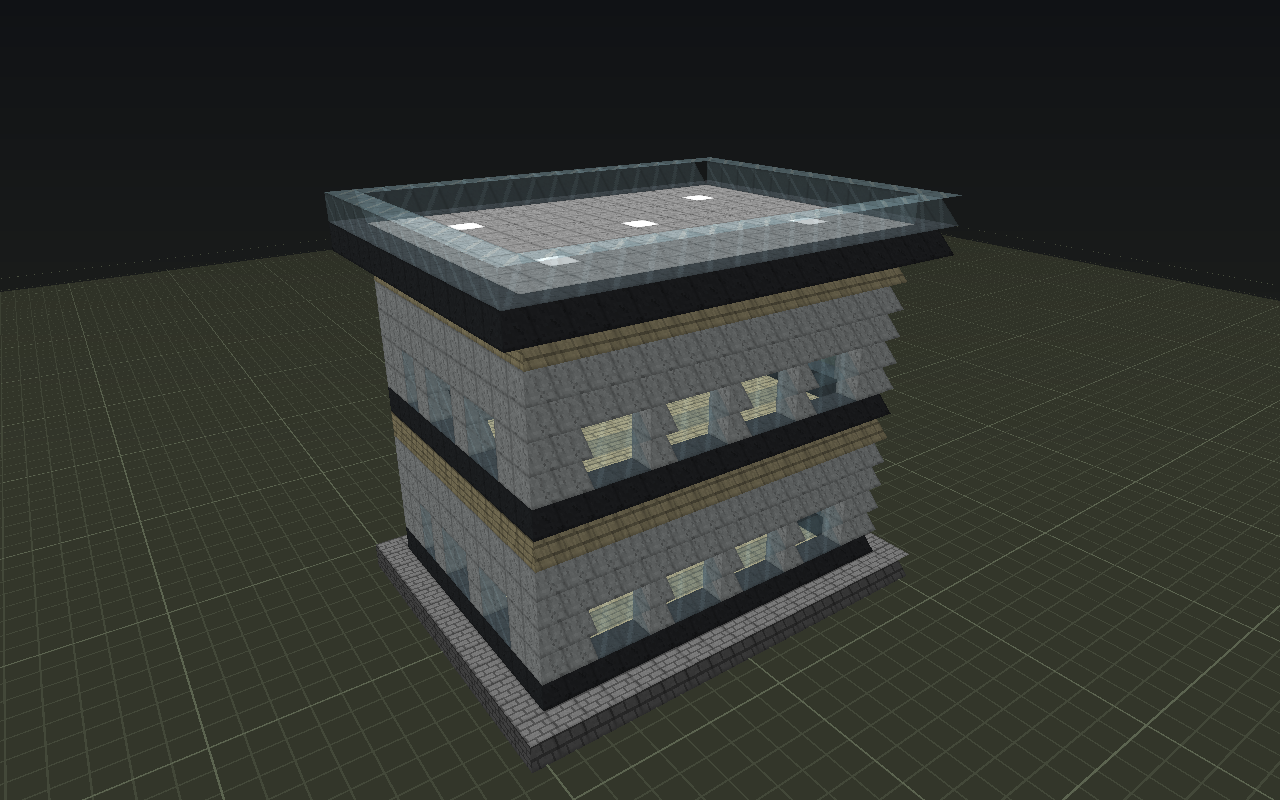
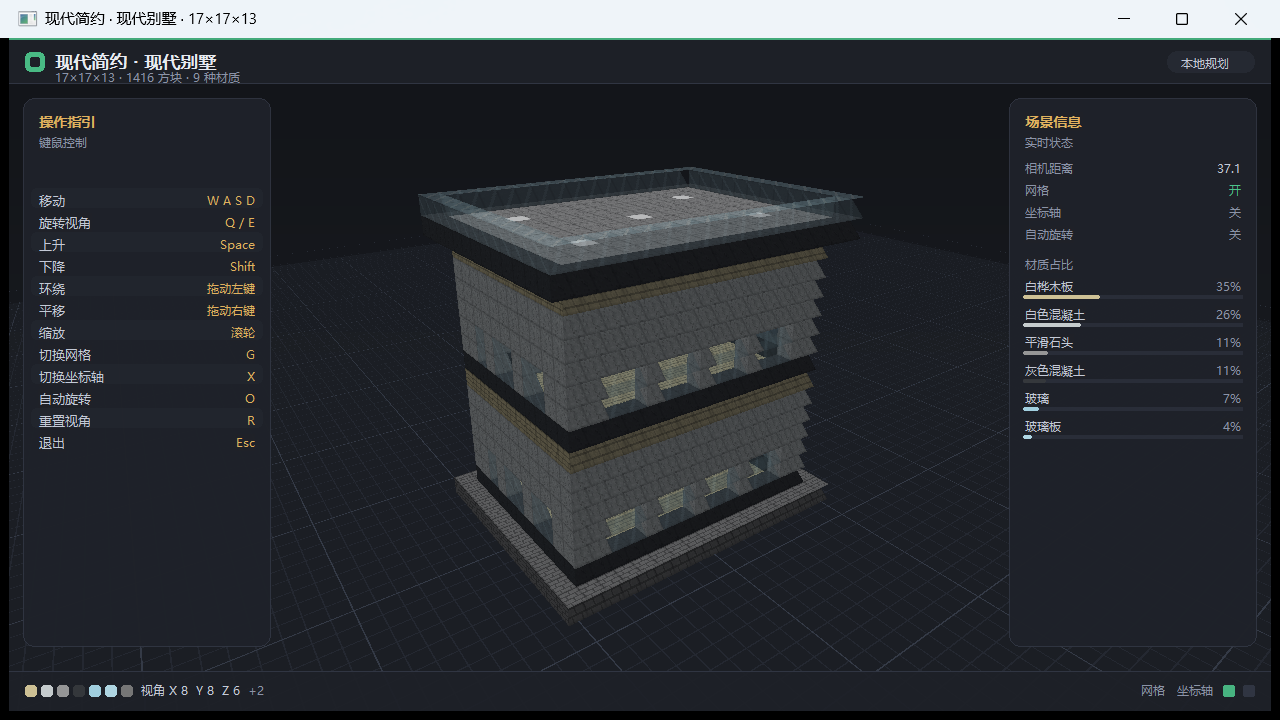
fix(preview): stop the scene-info card from overlapping itself
- the live state rows, the material heading and the material bars now share one
  layout rhythm; the bars used to paint straight over the labels and percentages
- the bottom status line starts after the material swatch strip instead of
  running underneath it
- refresh docs/preview.png from an actual 1280x720 preview window so the README
  shows the current chrome

diff --git a/c/src/preview.c b/c/src/preview.c
@@ -182,6 +182,16 @@ static const char* const PANEL_KEYS[][2] = {
 #define PANEL_PAD  14
 #define LINE_H     22
 
+/* Right-hand "scene info" card rhythm. The four live state rows come first,
+ * then the material distribution heading and its bars; the two functions that
+ * paint that card (chrome and text) must agree on these or the bars land on top
+ * of the labels. */
+#define STATUS_STATS_TOP  62
+#define STATUS_STATS_STEP 22
+#define STATUS_CHART_TOP  180
+#define STATUS_CHART_STEP 28
+#define STATUS_BAR_OFFSET 17   /* thin bar sits under the material name */
+
 /* ========================================================================== */
 /* text                                                                       */
 /* ========================================================================== */
@@ -216,6 +226,18 @@ static void text_draw_right(HDC hdc, Arena* a, HFONT font, int x, int y,
     SetBkMode(hdc, TRANSPARENT);
     DrawTextW(hdc, (const WCHAR*)s, (int)n, &rc,
               DT_RIGHT | DT_SINGLELINE | DT_VCENTER | DT_NOPREFIX);
+}
+
+static int text_width(HDC hdc, Arena* a, HFONT font, const char* utf8)
+{
+    size_t n = 0;
+    U16* s = mb_u16_from_utf8(a, utf8, &n);
+    if (!s || n == 0) return 0;
+
+    SelectObject(hdc, font);
+    SIZE size;
+    if (!GetTextExtentPoint32W(hdc, (const WCHAR*)s, (int)n, &size)) return 0;
+    return size.cx;
 }
 
 static HFONT make_font(int px, int weight)
@@ -306,17 +328,17 @@ static void pv_draw_chrome(Preview* p, MBFramebuffer* fb)
         if (r && r->byMaterialCount > 0 && r->total > 0) {
             int chartX = rightX + 14;
             int chartW = rightW - 28;
-            int cy = rightY + 96;
+            int cy = rightY + STATUS_CHART_TOP;
             int maxRows = 6;
             for (int i = 0; i < r->byMaterialCount && i < maxRows; i++) {
                 double frac = (double)r->byMaterial[i].count / (double)r->total;
                 int barW = (int)(frac * (double)chartW + 0.5);
                 if (barW < 3) barW = 3;
                 uint32_t col = mb_material_color(r->byMaterial[i].id);
-                int y = cy + i * 20;
-                if (y + 16 > rightY + rightH - 12) break;
-                blend_rect(fb, chartX, y + 4, chartW, 8, line, 0.55);
-                fill_round(fb, chartX, y + 4, barW, 8, 4, col, 0.95);
+                int y = cy + i * STATUS_CHART_STEP;
+                if (y + STATUS_CHART_STEP > rightY + rightH - 12) break;
+                blend_rect(fb, chartX, y + STATUS_BAR_OFFSET, chartW, 4, line, 0.55);
+                fill_round(fb, chartX, y + STATUS_BAR_OFFSET, barW, 4, 2, col, 0.95);
             }
         }
     }
@@ -414,8 +436,8 @@ static void pv_draw_text(Preview* p, HDC hdc)
         text_draw(hdc, a, fSmall, rightX + 16, rightY + 36, "实时状态", dim);
 
         char buf[160];
-        int ly = rightY + 62;
-        const int step = 22;
+        int ly = rightY + STATUS_STATS_TOP;
+        const int step = STATUS_STATS_STEP;
 
         snprintf(buf, sizeof buf, "%.1f", p->dist);
         text_draw(hdc, a, fSmall, rightX + 16, ly, "相机距离", dim);
@@ -440,13 +462,14 @@ static void pv_draw_text(Preview* p, HDC hdc)
                         p->opt.autoOrbit ? accent : dim);
 
         /* material distribution heading sits just above the bars */
-        text_draw(hdc, a, fSmall, rightX + 16, rightY + 78, "材质占比", dim);
+        text_draw(hdc, a, fSmall, rightX + 16, rightY + STATUS_CHART_TOP - 22,
+                  "材质占比", dim);
 
         if (r && r->byMaterialCount > 0 && r->total > 0) {
-            int cy = rightY + 96;
+            int cy = rightY + STATUS_CHART_TOP;
             for (int i = 0; i < r->byMaterialCount && i < 6; i++) {
-                int y = cy + i * 20;
-                if (y + 16 > rightY + (h - rightY - 64) - 12) break;
+                int y = cy + i * STATUS_CHART_STEP;
+                if (y + STATUS_CHART_STEP > rightY + (h - rightY - 64) - 12) break;
                 const char* nm = mb_material_name(r->byMaterial[i].id);
                 double pct = 100.0 * (double)r->byMaterial[i].count / (double)r->total;
                 char val[48];
@@ -455,7 +478,8 @@ static void pv_draw_text(Preview* p, HDC hdc)
                 text_draw_right(hdc, a, fMono, rightX + 16, y, rightW - 32, 16, val, dim);
             }
         } else {
-            text_draw(hdc, a, fSmall, rightX + 16, rightY + 96, "暂无数据", dim);
+            text_draw(hdc, a, fSmall, rightX + 16, rightY + STATUS_CHART_TOP,
+                      "暂无数据", dim);
         }
     }
 
@@ -463,15 +487,21 @@ static void pv_draw_text(Preview* p, HDC hdc)
     int sh = 40;
     int by = h - sh + 11;
 
+    /* Leave the material swatch strip its own space; text starts after it. */
+    int swatches = 0;
+    if (r) swatches = r->byMaterialCount > 7 ? 7 : r->byMaterialCount;
+    int coordX = 16 + swatches * 16 + (swatches ? 4 : 0);
+
     char coord[128];
     snprintf(coord, sizeof coord, "视角 X %.0f  Y %.0f  Z %.0f",
              p->pivotX, p->pivotY, p->pivotZ);
-    text_draw(hdc, a, fSmall, 16, by, coord, soft);
+    text_draw(hdc, a, fSmall, coordX, by, coord, soft);
 
     if (r && r->byMaterialCount > 7) {
         char more[32];
         snprintf(more, sizeof more, "+%d", r->byMaterialCount - 7);
-        text_draw(hdc, a, fSmall, 16 + 7 * 16 + 2, by, more, dim);
+        int coordW = text_width(hdc, a, fSmall, coord);
+        text_draw(hdc, a, fSmall, coordX + coordW + 8, by, more, dim);
     }
 
     /* toggles legend on the far right, next to the two chips */
